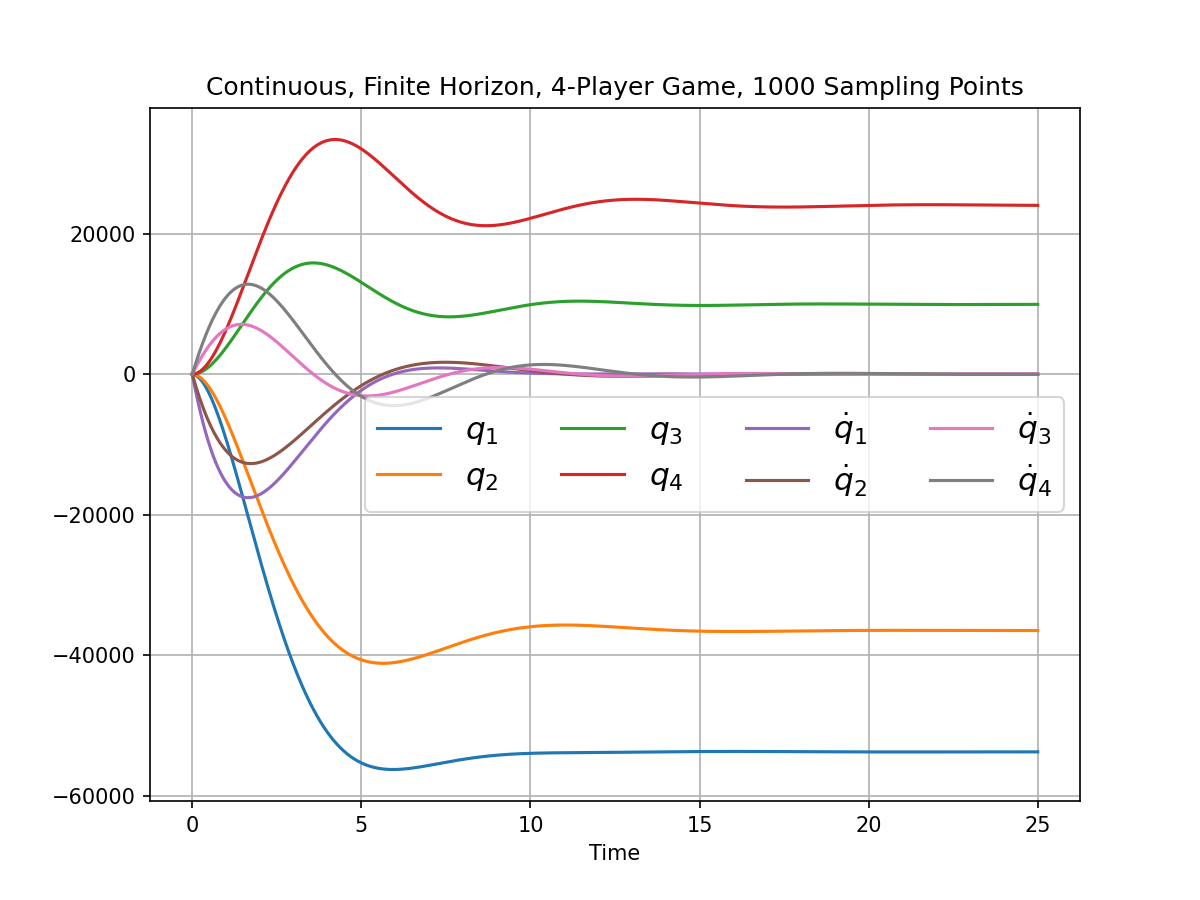
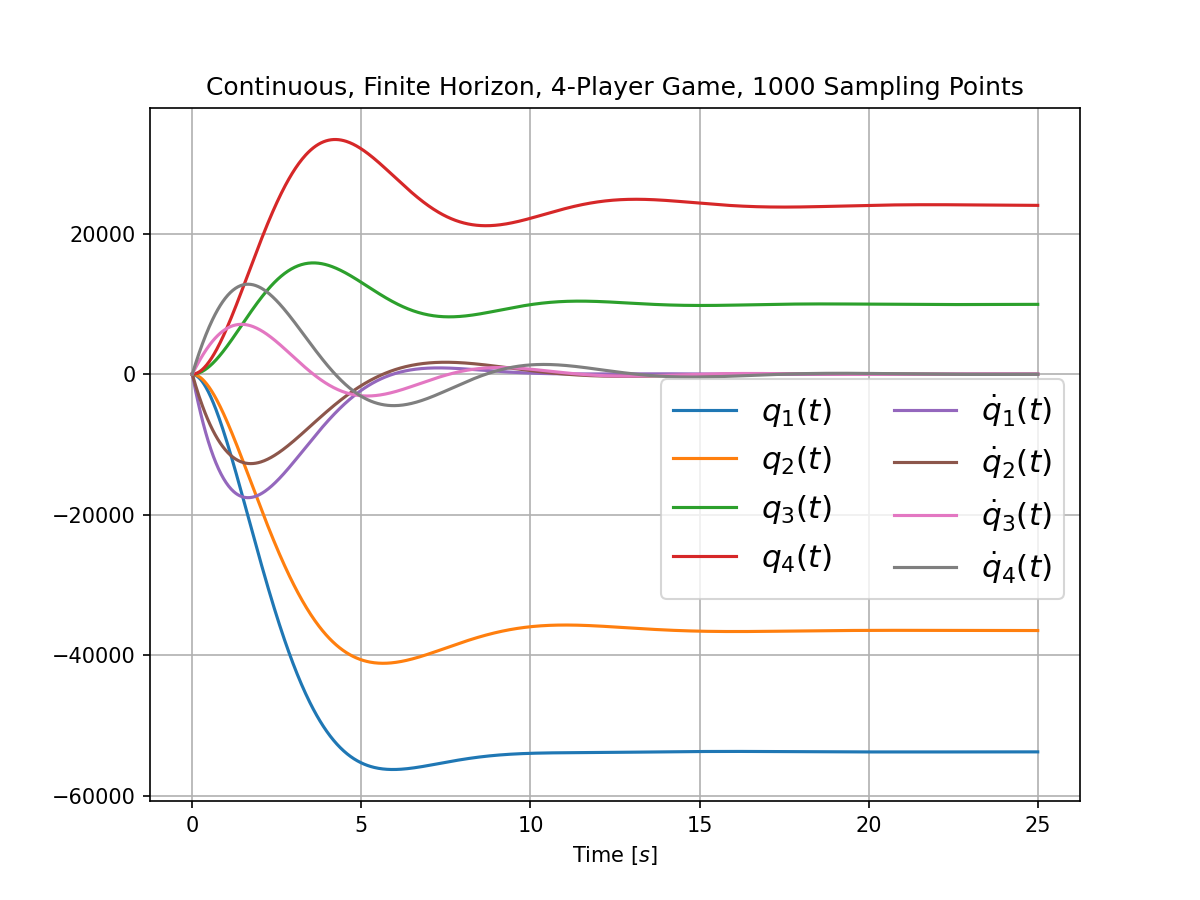
3.2 update 2

diff --git a/src/PyDiffGame/examples/MassesWithSpringsComparison.py b/src/PyDiffGame/examples/MassesWithSpringsComparison.py
@@ -136,10 +136,10 @@ class MassesWithSpringsComparison(PyDiffGameLQRComparison):
         return all_unit_vectors
 
 
-N2_output_variables_names = ['$\\frac{x_1 + x_2}{\\sqrt{2}}$',
-                             '$\\frac{x_1 - x_2}{\\sqrt{2}}$',
-                             '$\\frac{\\dot{x}_1 + \\dot{x}_2}{\\sqrt{2}}$',
-                             '$\\frac{\\dot{x}_1 - \\dot{x}_2}{\\sqrt{2}}$']
+N2_output_variables_names = ['$\\frac{x_1(t) + x_2(t)}{\\sqrt{2}}$',
+                             '$\\frac{x_2(t) - x_1(t)}{\\sqrt{2}}$',
+                             '$\\frac{\\dot{x}_1(t) + \\dot{x}_2(t)}{\\sqrt{2}}$',
+                             '$\\frac{\\dot{x}_2(t) - \\dot{x}_1(t)}{\\sqrt{2}}$']
 
 
 def multiprocess_worker_function(N: int,
@@ -153,7 +153,8 @@ def multiprocess_worker_function(N: int,
     x_T = x_0 * 10 if N == 2 else np.array([(10 * i) ** 3 for i in range(1, N + 1)] + [0] * N)
 
     output_variables_names = N2_output_variables_names \
-        if N == 2 else [f'$q_{i}$' for i in range(1, N + 1)] + ['$\\dot{q}_{' + str(i) + '}$' for i in range(1, N + 1)]
+        if N == 2 else [f'$q_{i}(t)$' for i in range(1, N + 1)] + ['$\\dot{q}_{' + str(i) + '}(t)$'
+                                                                for i in range(1, N + 1)]
 
     T_f = 25
     masses_with_springs = MassesWithSpringsComparison(N=N,
@@ -177,14 +178,14 @@ def multiprocess_worker_function(N: int,
 
 if __name__ == '__main__':
     d = 0.2
-    N = 2
+    N = 8
 
     Ns = [N]
     ks = [10]
     ms = [50]
     rs = [1]
-    epsilon_xs = [10e-7]
-    epsilon_Ps = [10e-7]
+    epsilon_xs = [10e-8]
+    epsilon_Ps = [10e-8]
     qs = [[500, 2000], [500, 250]] if N == 2 else \
         [[500 * (1 + d) ** i for i in range(N)], [500 * (1 - d) ** i for i in range(N)]]
 

diff --git a/src/PyDiffGame/PyDiffGame.py b/src/PyDiffGame/PyDiffGame.py
@@ -434,7 +434,7 @@ class PyDiffGame(ABC, Callable, Sequence):
         self._fig = plt.figure(dpi=150)
         self._fig.set_size_inches(8, 6)
         plt.plot(t[:temporal_variables.shape[0]], temporal_variables)
-        plt.xlabel('Time')
+        plt.xlabel('Time $[s]$')
 
         if title:
             plt.title(title)
@@ -455,10 +455,10 @@ class PyDiffGame(ABC, Callable, Sequence):
                 labels = ["${\mathbf{x}}_{" + str(j) + "}$" for j in range(1, self._n + 1)]
 
             plt.legend(labels=labels,
-                       loc='upper left' if is_P else 'best',
-                       ncol=2,
-                       prop={'size': int(80 / self._n)},
-                       bbox_to_anchor=(0.25, 0.4)
+                       loc='upper left' if is_P else 'right',
+                       ncol=4,
+                       prop={'size': int(220 / self._n)},
+                       bbox_to_anchor=(1, 0.65)
                        )
 
         plt.grid()
